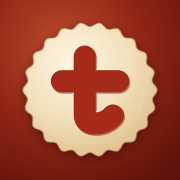
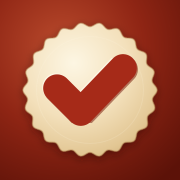
fix: 默认图标改用火漆印
- 05 签名火漆的 t 在 16px 视觉重心偏右下，默认改回 02 火漆印
- 02 继续使用静态默认资源；05 改为烘焙 512 PNG 的内置选项
- 同步 favicon、maskable、apple-touch、内置列表与文档说明

Changed region(s): [[0.2222, 0.25, 0.7778, 0.7778]]

diff --git a/web/src/lib/builtinIcons.ts b/web/src/lib/builtinIcons.ts
@@ -2,7 +2,7 @@ import { HEX_COLOR_RE } from '@tada/shared';
 import enamelPng from '../assets/brand-icons/enamel.png';
 import notebookPng from '../assets/brand-icons/notebook.png';
 import ribbonPng from '../assets/brand-icons/ribbon.png';
-import sealPng from '../assets/brand-icons/seal.png';
+import signetPng from '../assets/brand-icons/signet.png';
 import type { MessageKey } from './i18n';
 
 /**
@@ -33,18 +33,18 @@ export interface BuiltinIcon {
 
 export const BUILTIN_ICONS: BuiltinIcon[] = [
   {
-    id: 'signet',
-    labelKey: 'branding.label.signet',
+    id: 'seal',
+    labelKey: 'branding.label.seal',
     hintKey: 'branding.hint.default',
     kind: 'default',
     preview: '/icons/icon-192.png',
   },
   {
-    id: 'seal',
-    labelKey: 'branding.label.seal',
+    id: 'signet',
+    labelKey: 'branding.label.signet',
     kind: 'asset',
-    preview: sealPng,
-    pngUrl: sealPng,
+    preview: signetPng,
+    pngUrl: signetPng,
   },
   {
     id: 'notebook',

diff --git a/web/src/lib/builtinIcons.test.ts b/web/src/lib/builtinIcons.test.ts
@@ -11,8 +11,8 @@ import {
 describe('内置图标', () => {
   it('包含第二版全部图标和经典对勾', () => {
     expect(BUILTIN_ICONS.map((icon) => icon.id)).toEqual([
-      'signet',
       'seal',
+      'signet',
       'notebook',
       'ribbon',
       'enamel',
@@ -21,7 +21,7 @@ describe('内置图标', () => {
     expect(new Set(BUILTIN_ICONS.map((icon) => icon.id)).size).toBe(BUILTIN_ICONS.length);
   });
 
-  it('默认图标是签名火漆，材质图标都带 512 PNG', () => {
+  it('默认图标是火漆印，材质图标都带 512 PNG', () => {
     expect(BUILTIN_ICONS[0]?.kind).toBe('default');
     for (const icon of BUILTIN_ICONS) {
       if (icon.kind === 'asset') {

diff --git a/web/src/ui/BrandingCard.tsx b/web/src/ui/BrandingCard.tsx
@@ -191,7 +191,7 @@ export function BrandingCard({ token }: { token: string }) {
     if (pendingIcon !== null) {
       payload.icon = { mime: 'image/png', data: pendingIcon };
     } else if (pendingReset && branding.hasCustomIcon) {
-      // 选中「签名火漆」= 回到默认图标；没有自定义图标时不必多写一次
+      // 选中默认图标（火漆印）= 回到仓库默认；没有自定义图标时不必多写一次
       payload.icon = null;
     }
 

diff --git a/design/icon-candidates/v2/README.md b/design/icon-candidates/v2/README.md
@@ -80,12 +80,12 @@ python3 ~/.claude/skills/app-icon-design/scripts/preview-page.py \
 
 ## 最终选择（已落地）
 
-- **默认图标：05 签名火漆**（`05-signet.svg`）。已写入
+- **默认图标：02 火漆印**（`02-seal.svg`）。已写入
   `web/public/icons/maskable-source.svg`，`npm run icons` 重新生成了 192/512/
   maskable/apple-touch；`web/public/favicon.svg` 是同图形的圆角版。
-- **内置图标：第二版全部 5 个 + 经典对勾**。01/02/03/04 的 512 PNG 烘焙在
+- **内置图标：第二版全部 5 个 + 经典对勾**。01/03/04/05 的 512 PNG 烘焙在
   `web/src/assets/brand-icons/`，选择后走现有 `/api/branding` 上传链路；
-  05 是默认图标，选中它等于清除自定义图标。
+  02 是默认图标，选中它等于清除自定义图标；05 仍保留为内置选项。
 - **第一版前四个**不再作为独立图标堆在列表里，收敛成「经典对勾」的四个配色
   色板（金底墨勾 / 深蓝金勾 / 品牌蓝金勾 / 品牌蓝白勾），并支持任意底色和
   图形色。逻辑在 `web/src/lib/builtinIcons.ts`，UI 在
@@ -93,6 +93,10 @@ python3 ~/.claude/skills/app-icon-design/scripts/preview-page.py \
 - 侧栏品牌标记改为直接显示当前图标（默认/自定义）；旧蓝色勾字形已移除。
 - 内置材质图标使用构建时烘焙的 PNG，避免浏览器对 SVG 滤镜/图案的差异；
   只有纯色经典对勾在浏览器里走 canvas 栅格化。
+
+> 2026-11-27 更新：默认从 05 改回 02。原因是 05 的 t 在小像素下
+> 视觉重心偏右下，16px 不够对称；02 的勾在同等尺寸下更稳。
+> 05 的 512 PNG 仍作为内置选项保留。
 
 默认图标和品牌设置都按现有单租户模型：图标最终是一张 512 PNG 存在中继的
 `branding` 行里，没有新增 API 字段或 D1 列。

diff --git a/docs/SPEC.md b/docs/SPEC.md
@@ -182,7 +182,7 @@ quarantine     // 被服务端 4xx 永久拒绝、已跳过同步的毒丸条目
 - manifest：name/short_name/theme_color/background_color/display standalone/icons 192+512+maskable
 - 应用壳预缓存；`/api/*` 一律不缓存
 - 图标从一张 SVG 生成；若生成工具不可用，至少要有 SVG 图标 + apple-touch-icon，并在交付说明里写明
-- 实例品牌图标：默认是仓库里的「签名火漆」；设置页提供内置图标和可调色的经典对勾，
+- 实例品牌图标：默认是仓库里的「火漆印」；设置页提供内置图标和可调色的经典对勾，
   最终都以 512 PNG 经 `/api/branding` 存到中继，不新增服务端字段
 - iOS 主屏安装使用 `apple-mobile-web-app-capable` 等 meta，以独立窗口打开
 

diff --git a/README.md b/README.md
@@ -130,7 +130,7 @@ npm run pair
 2. 上传的图片会先在浏览器里缩成 512×512 PNG 再上传；中继只保存这一张。
 3. 未配对时也可以在 `relay/wrangler.toml` 的 `[vars]` 里设置 `APP_NAME`；设置页保存过之后以 D1 为准，再改 `APP_NAME` 不会覆盖。
 4. 已经添加到主屏幕的 PWA 需要删除后重新添加，名称和图标才会更新；普通网页刷新即可。
-5. 内置图标包括签名火漆（默认）、火漆印、笔记本、纸与丝带、珐琅勾，以及可调色的经典对勾。
+5. 内置图标包括火漆印（默认）、签名火漆、笔记本、纸与丝带、珐琅勾，以及可调色的经典对勾。
 
 </details>
 

diff --git a/design/icon-candidates/README.md b/design/icon-candidates/README.md
@@ -1,6 +1,6 @@
 # Tada 图标设计候选
 
-> 最终选择：第二版的 `05-signet` 作为默认图标；第一版 A/B/C 的四个配色版本
+> 最终选择：第二版的 `02-seal` 作为默认图标（05-signet 保留为内置选项）；第一版 A/B/C 的四个配色版本
 > 没有单独堆进内置列表，而是合并成「经典对勾」的可调色板。详见
 > [`v2/README.md`](v2/README.md)。
 
